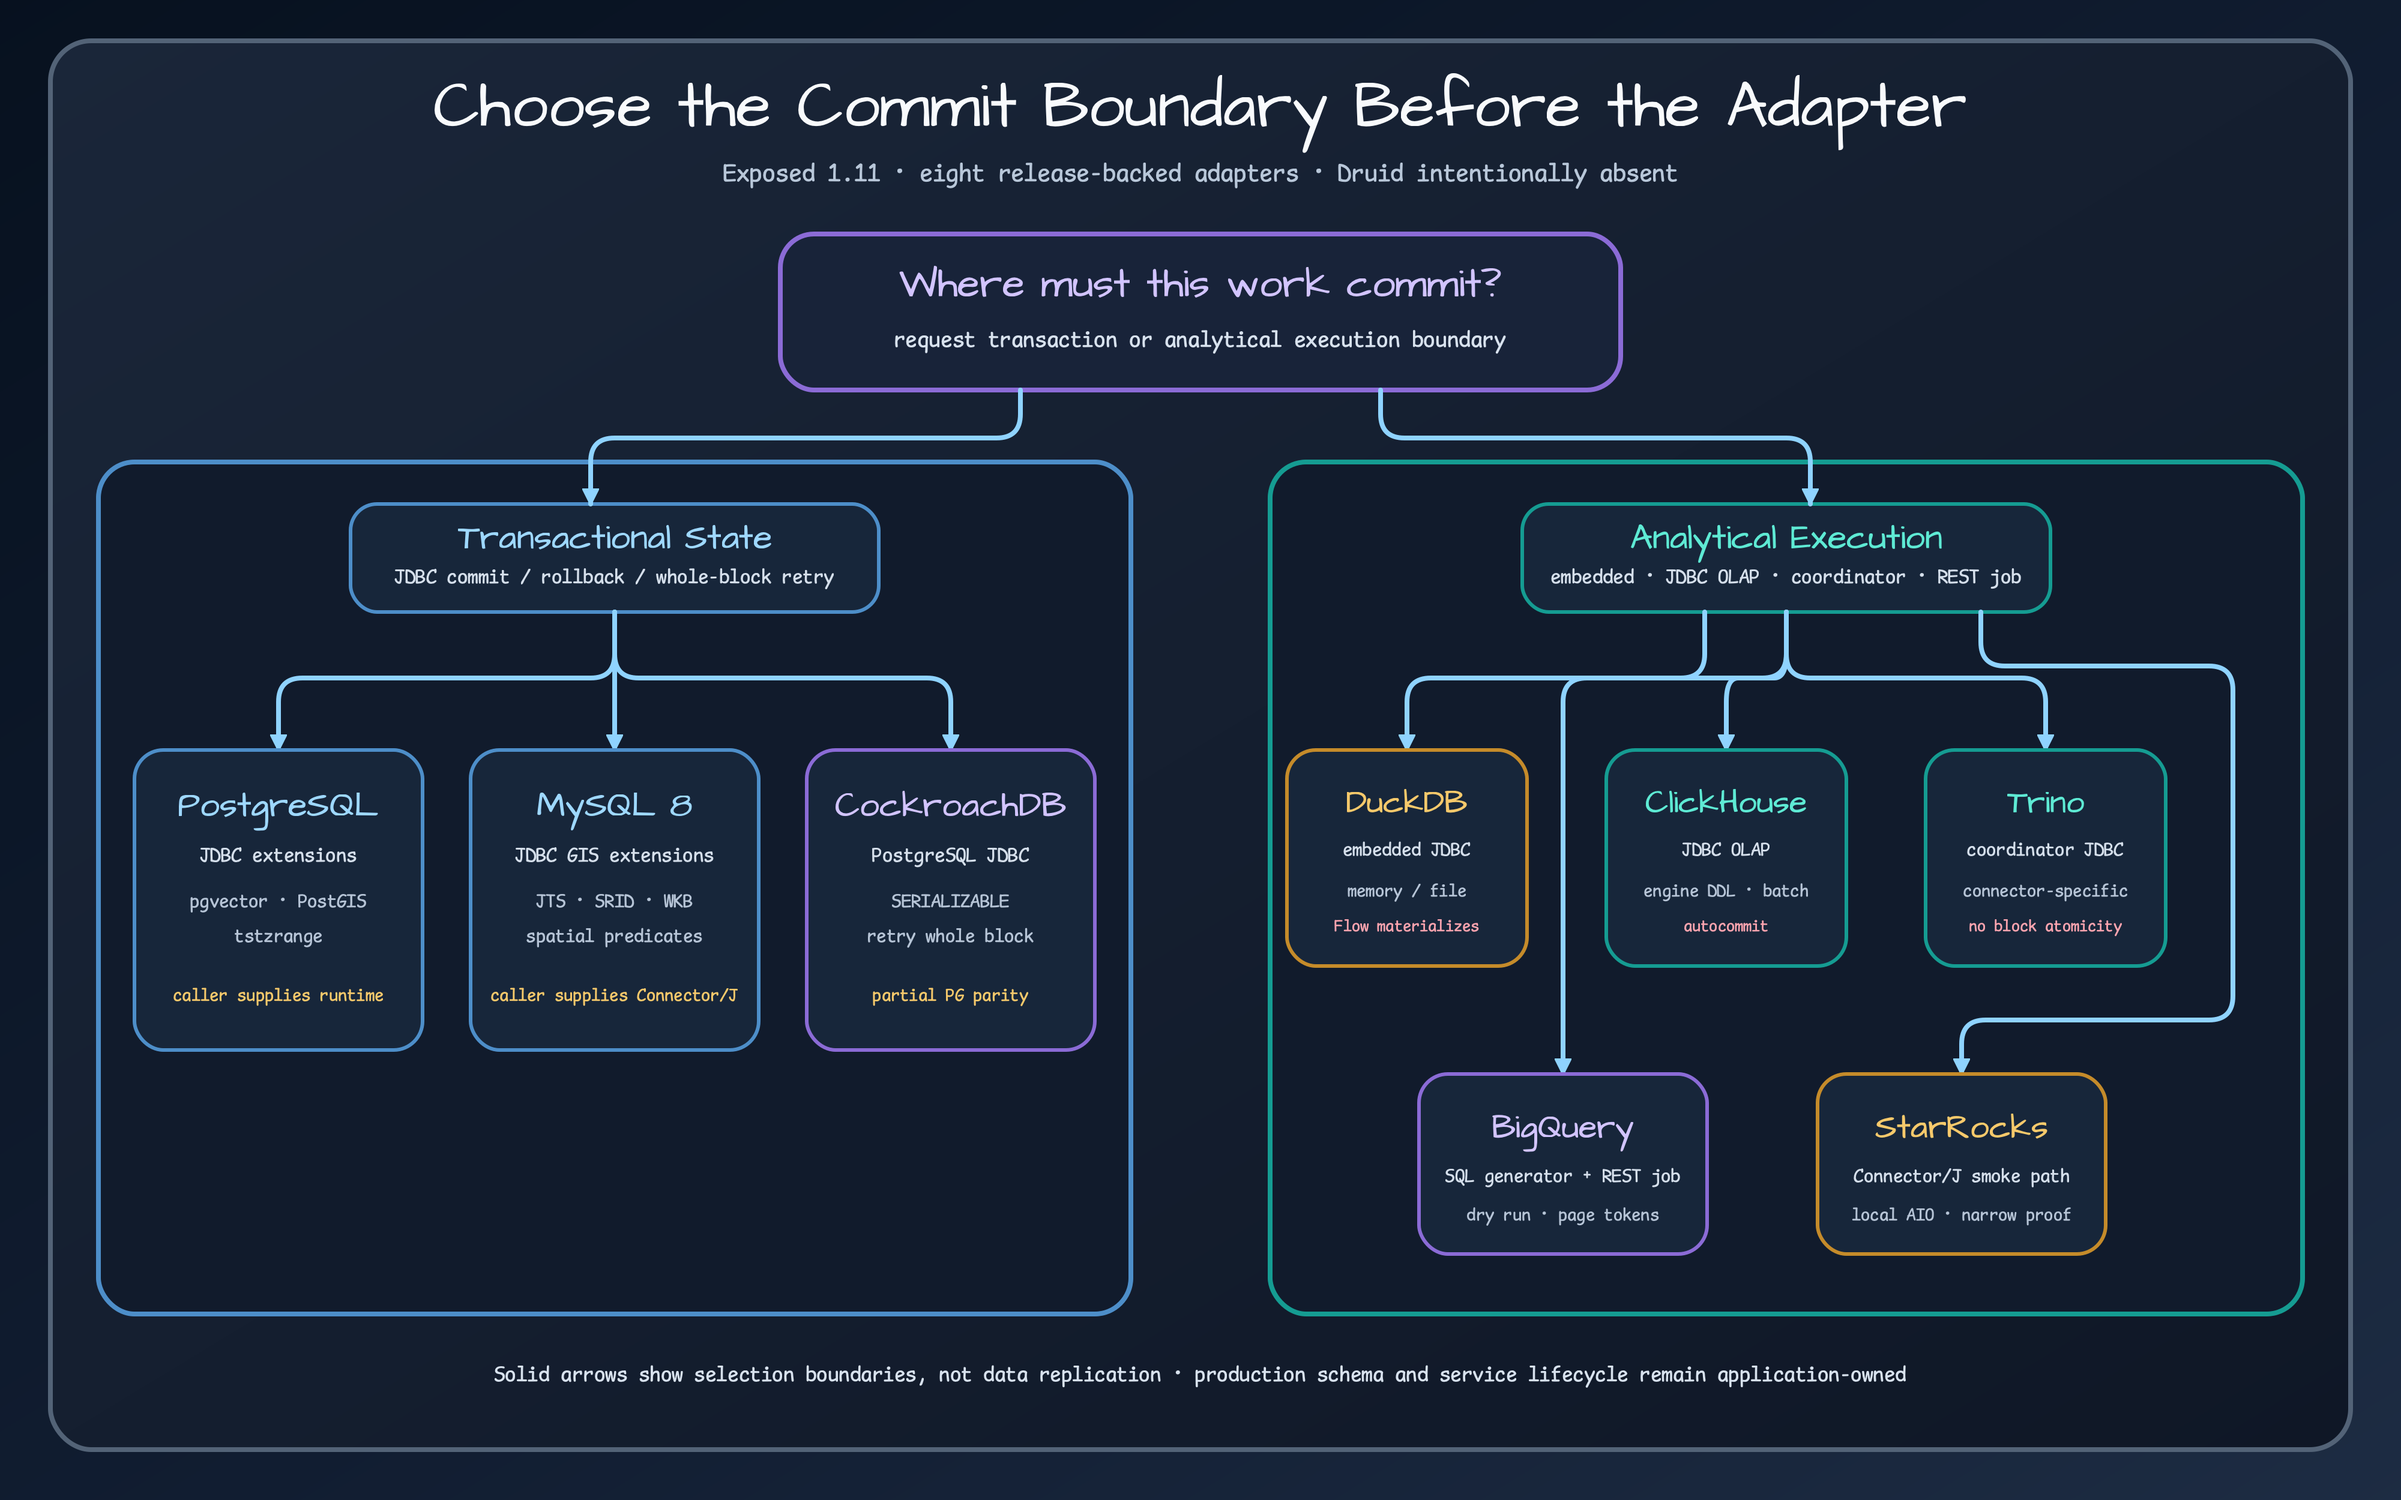
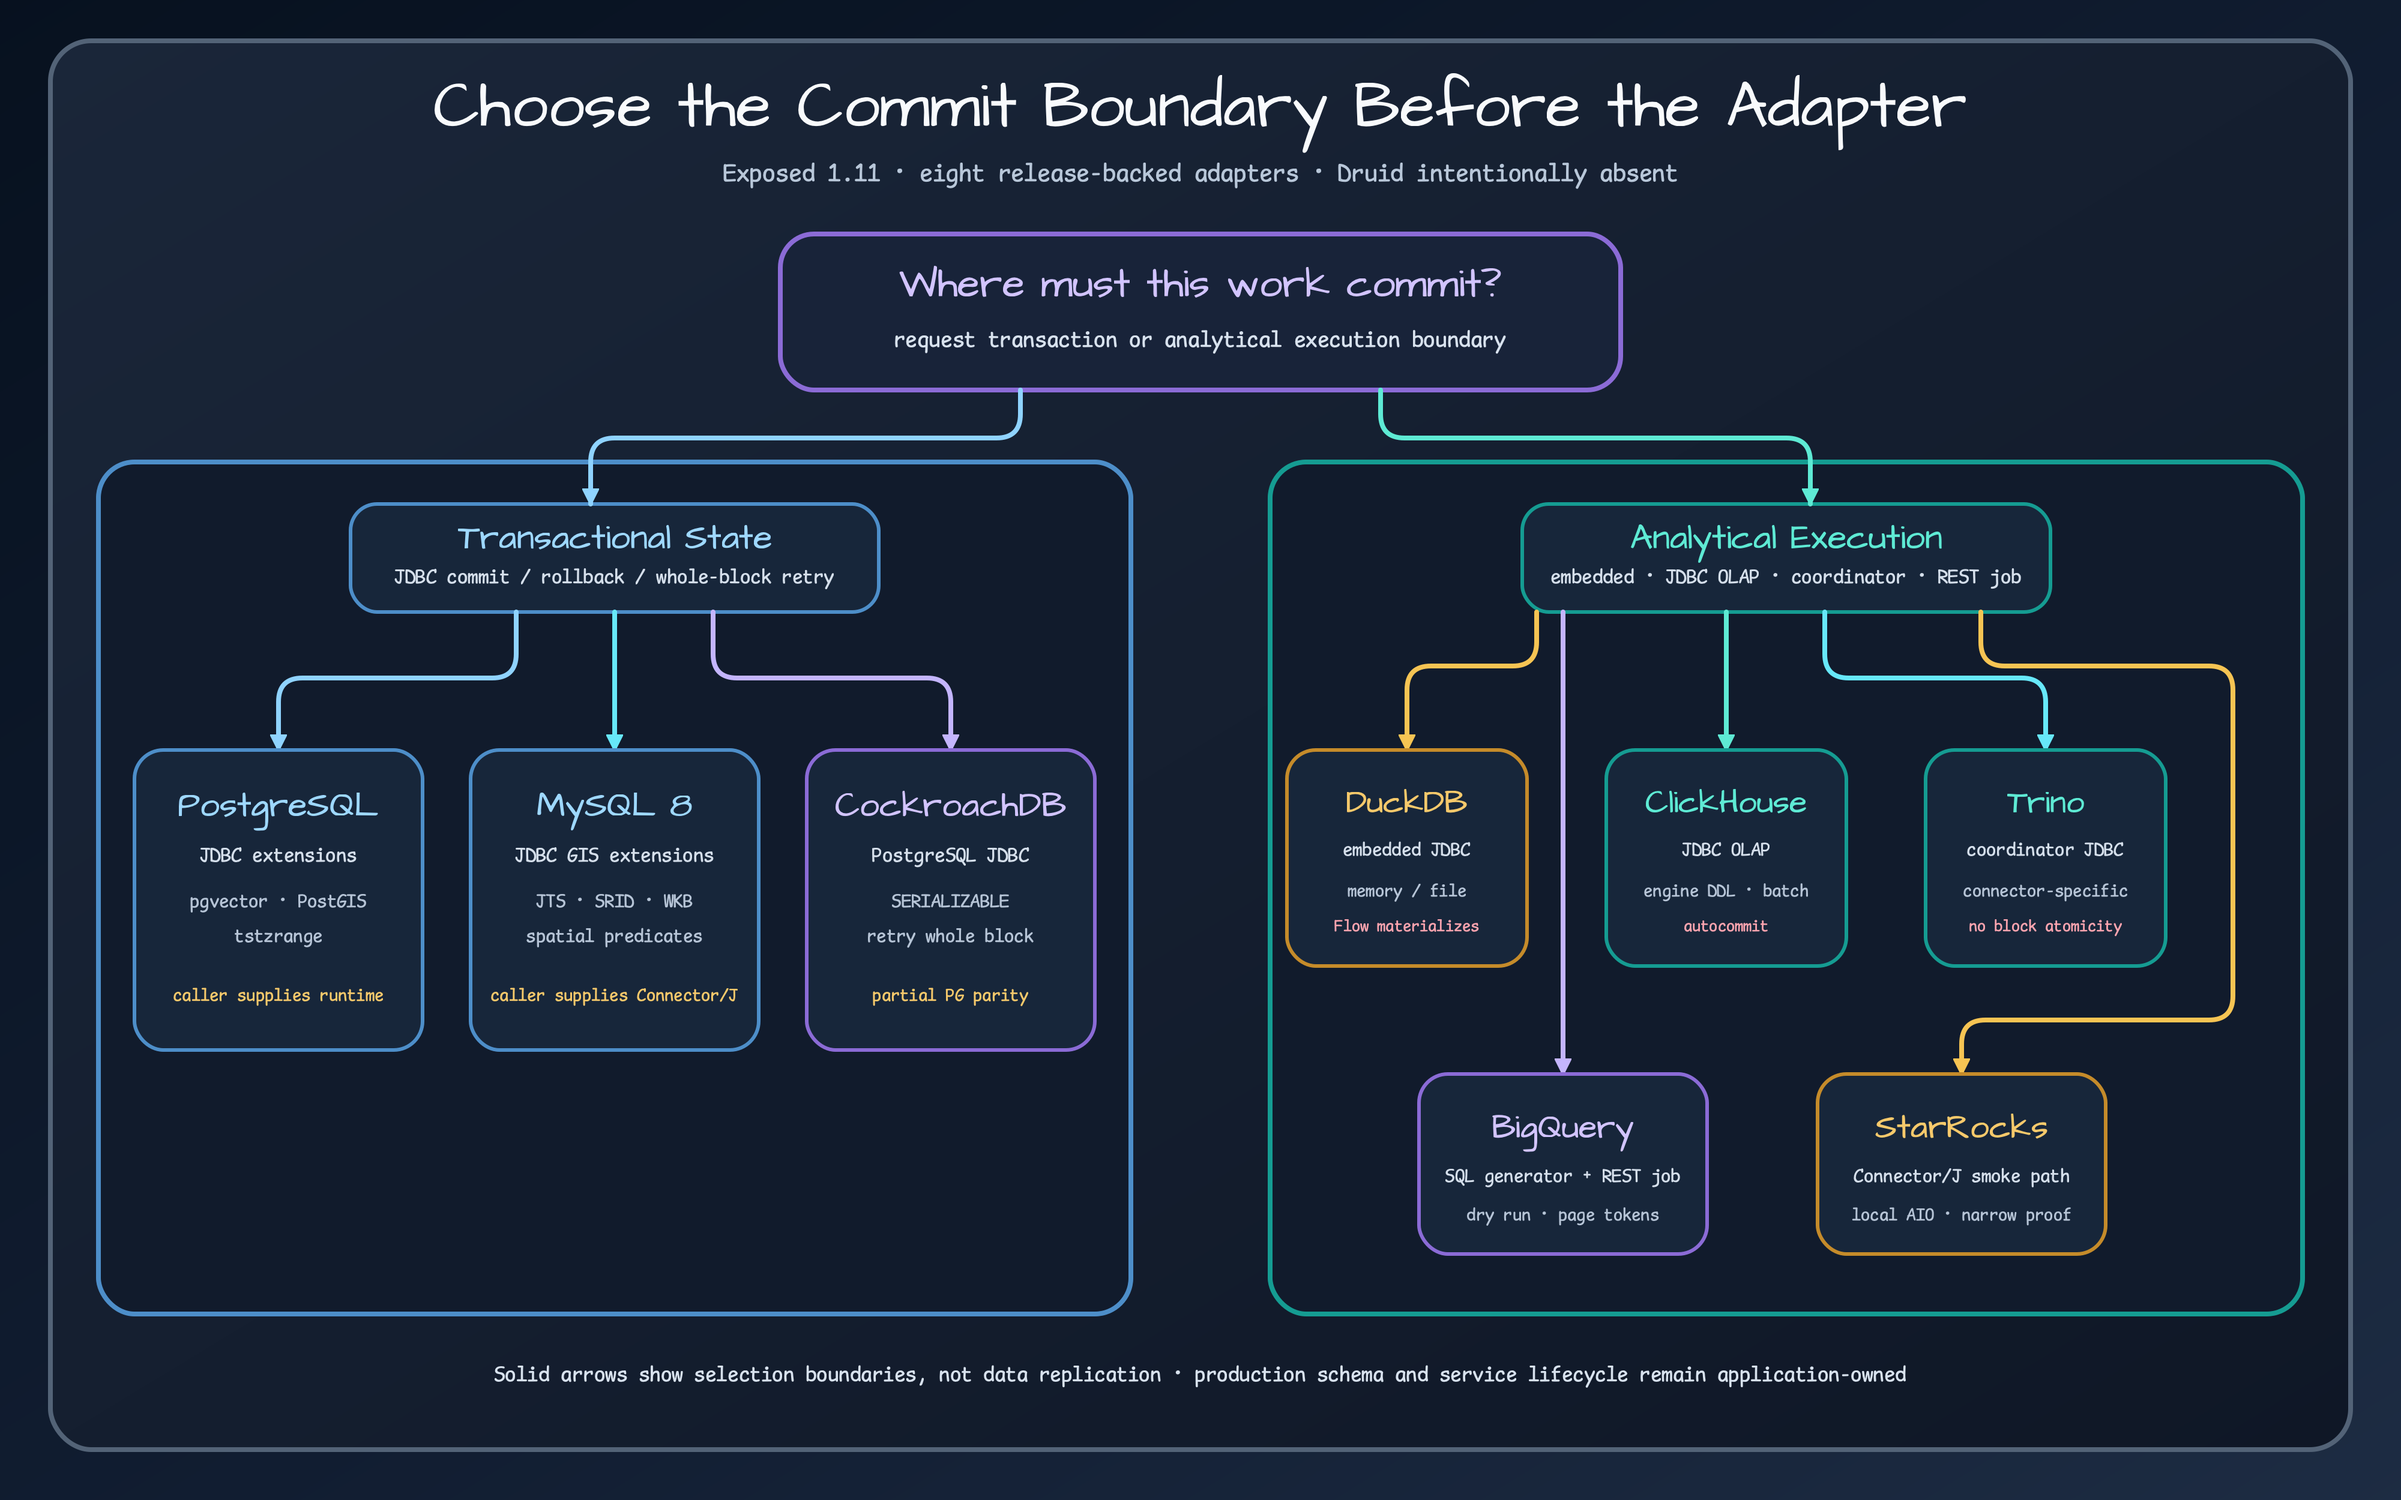
Make overlapping manual routes visually distinguishable
Use runtime- and target-specific connector colors, separate shared ports, and reroute the remaining crossing so dense decision maps stay readable at a glance.

Constraint: Manual diagrams must keep the dark visual language, 14x14 arrowheads, and zero audited crossings or card intrusions.

Rejected: Rely on stroke width alone | adjacent and shared routes still read as one path.

Confidence: high

Scope-risk: narrow

Directive: Give overlapping connector families contrasting colors and distinct ports before rendering PNG assets.

Tested: XML parse, CairoSVG 2x render, connector/geometry/endpoint/mixed-corner audits, original-size PNG inspection, 27 manual tests with 323 assertions, release-link validation, deterministic manifest export, git diff --check

Not-tested: No browser rendering change beyond the regenerated static PNG assets

diff --git a/docs/superpowers/checklists/2026-07-14-exposed-1.11-manual-checklist.md b/docs/superpowers/checklists/2026-07-14-exposed-1.11-manual-checklist.md
@@ -50,14 +50,17 @@ Scope: bilingual source manual for the 40 Gradle projects released by
   - **Action:** Run XML, CairoSVG `-s 2`, connector, geometry, endpoint, and
     mixed-corner checks for every new framework/batch diagram.
   - **Evidence:** JDBC `6/9`, R2DBC `6/9`, Modulith `7/9`, Batch `12/13`
-    connector/card counts; intrusions, crossings, geometry, endpoint, and
-    mixed-corner failures all zero.
+    connector/card counts; Repository Overview `9/9` and Adapter Map `10/11`;
+    intrusions, crossings, geometry, endpoint, and mixed-corner failures all
+    zero.
   - **Failure:** Repair one asset and repeat its complete loop.
 - [x] **DIA-03 — Inspect authoritative PNGs**
   - **Action:** Open every final PNG at original size after its last render.
   - **Evidence:** dark theme, readable text, visible 14x14 primary arrowheads,
     connected routes, no clipping; the stale R2DBC title render was detected and
-    regenerated before completion.
+    regenerated before completion. Repository Overview now distinguishes JDBC
+    blue from R2DBC teal, while Adapter Map uses contrasting target colors;
+    both final PNGs were re-inspected at original size after rerendering.
   - **Failure:** The PNG overrides script results and returns to SVG repair.
 
 ## Reproducible verification
